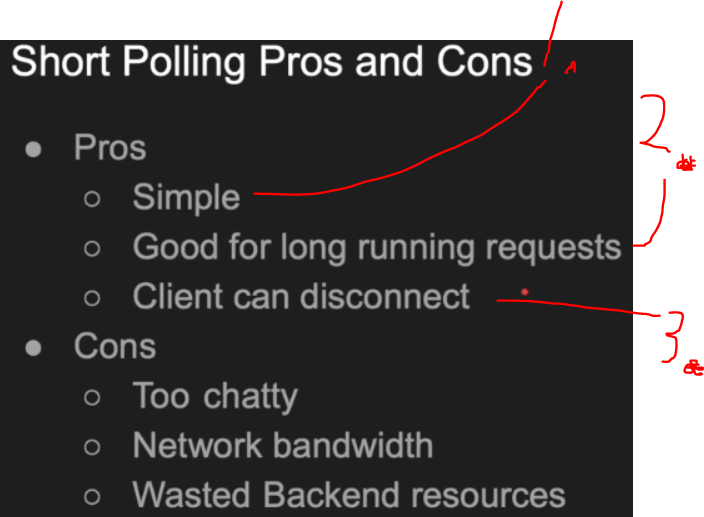
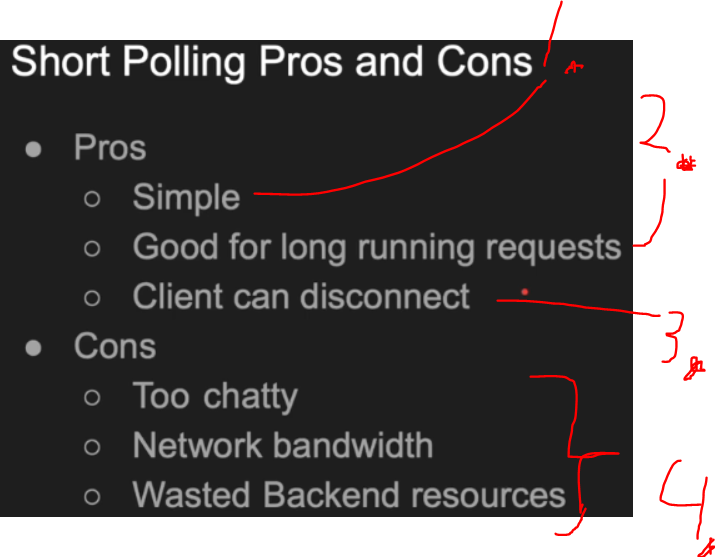
proceeded

diff --git a/Fundamentals of Backend Engineering/Section 02/README.md b/Fundamentals of Backend Engineering/Section 02/README.md
@@ -33,17 +33,21 @@ Backend Communication Design Patterns.
 6. Simple diagram for the **request** and the **response**.
 
 > [!NOTE]
-> Where does the **serialization** and **deserialization** come to place, in example of the **JSON**?
+> Where does the **serialization** and **deserialization** come to place, in example of the **JSON**? <br>
     - In the **step**, `processing the request`. The `3` step!
         - 💲💲**EXPENSIVE**💲💲 of **deserialization**.
             - Example, the **XML** is heavy on processing!
 
-<img id="back end egineer" src="whereAreTheseUsed.PNG" >
+<div align="center">
+    <img id="back end egineer" src="whereAreTheseUsed.PNG" >
+</div>
 
 1. HTTP, DNS ... are **request and response** protocols.    
     - There is **no order**, when coming into communication and in **general** when dealing with **backend engineering**
 
-<img id="back end egineer" src="thereIsNoLineInBeEngineering.jpeg" >
+<div align="center">
+    <img id="back end egineer" src="thereIsNoLineInBeEngineering.jpeg" >
+</div>
 
 2. You run **code** in other place than in own computer.  
 3. **SQL** is also, **request and response**. We send **SQL** and processes it and sends back.
@@ -133,18 +137,24 @@ Body
 
 # Push.  
 
-<img id="back end egineer" src="push.PNG">
+<div align="center">
+    <img id="back end egineer" src="push.PNG">
+</div>
 
 1. If you want to be fast as possible use, then you can think of using **PUSH**!
     - One of the famous ones!
 
-<img id="back end egineer" src="requestAndReponseNotAlwaysBest.PNG">
+<div align="center">
+    <img id="back end egineer" src="requestAndReponseNotAlwaysBest.PNG">
+</div>
 
 1. "Do I have event" → "No", "I have event" → "no" ... etc. With, **request** and **response** this is not ideal.
 2. **Pushing** is good when in certain use cases. Example, when server knows to push something to the **client**.
     - Example would be **chatting application**.
 
-<img id="back end egineer" src="whatIsPush.PNG">
+<div align="center">
+    <img id="back end egineer" src="whatIsPush.PNG">
+</div>
 
 1. **Client** connects to a **server**. Only thing should happen is the **connection**!
 2. **Server** sends data to the **client**!
@@ -154,13 +164,19 @@ Body
         - **Clients** consumes **queue**!
             - In **RabbitMQ** pushes messages **automatically** to the **clients** that are connected to it as soon as they’re available in **queue**!
 
-<img id="back end egineer" src="pushModel.PNG">
+<div align="center">
+    <img id="back end egineer" src="pushModel.PNG">
+</div>
 
 1. The connection is **established**!
 2. Backend gets **message**.
     - This **message** is **PUSHED** to all connected the **clients**!
 
-<img id="back end egineer" src="pushPlussesAndMinuses.PNG">
+<div align="center">
+    <img id="back end egineer" src="pushPlussesAndMinuses.PNG">
+</div>
+
+
 
 1. **Push** is based on the **real time**. On the moment data come to the input, we are going to **PUSH** it to clients. 
     - This is the definition of the **PUSH**.
@@ -174,14 +190,21 @@ Body
 
 - For this example we will test with **WebSocket** server and connecting:
 
-<img id="back end egineer" width="600" src="webSocketTesting.PNG">
+<div align="center">
+    <img id="back end egineer" width="500" src="webSocketTesting.PNG">
+</div>
+
+
 
 - Testing and connecting to the **WebSocket** we can test this by running in the terminal!
     - Run in cmd `let ws = new WebSocket("ws://localhost:8080");`.
 
 - We write simple **WebSocket** server. This will demonstrate the **PUSH** concept.
 
-<img id="back end egineer" width="600" src="pushPatternExample.jpeg">
+<div align="center">
+    <img id="back end egineer" width="400" src="pushPatternExample.jpeg">
+</div>
+
 
 ````
 const http = require("http");
@@ -313,12 +336,16 @@ connections.forEach (c=> c.send(`User${connection.socket.remotePort} just connec
 - **Polling** is good for service, where the progress takes **much time**.
     - Like uploading **YouTube** video. Upload takes time, but the service return the **handle** for the client. This is good for client to ask is this job done!
 
-<img id="back end egineer" src="whereTheRequesAndResponseIsNotIdeal.PNG">
+<div align="center">
+    <img id="back end egineer" src="whereTheRequesAndResponseIsNotIdeal.PNG">
+</div>
 
 1. The `request` and `response` is **not ideal**, when the **request** takes **too** much time to process. Example **uploading video** to the YouTube video!
 2.  We would want to have event that something did happen in backend. **Push** or **Polling** very good for certain use cases!
 
-<img id="back end egineer" src="whatIsShortPolling.PNG">
+<div align="center">
+    <img id="back end egineer" src="whatIsShortPolling.PNG">
+</div>
 
 1. **Client** sends a **request**.
     - The **Server** responds immediately with a **handle**.
@@ -327,7 +354,9 @@ connections.forEach (c=> c.send(`User${connection.socket.remotePort} just connec
             - Save it to **memory**.
 2. **Client** can use the `handle` for **POLL**:in the **status** from the server!
 
-<img id="back end egineer" src="shortPollingModel.PNG">
+<div align="center">
+    <img id="back end egineer" src="shortPollingModel.PNG">
+</div>
 
 1. **Client** makes request, the **Server immediately** answers with the **handle** to be requested.
 
@@ -337,7 +366,9 @@ connections.forEach (c=> c.send(`User${connection.socket.remotePort} just connec
 > [!CAUTION]
 > If the client disconnects, the response will be responded regardless is the client ready accept it or not!
 
-<img id="back end egineer" src="shortPollingProsAndCons.PNG">
+<div align="center">
+    <img id="back end egineer" src="shortPollingProsAndCons.PNG">
+</div>
 
 1. It is relatively **simple to implement**.
 2. This is good for **long running requests**.
@@ -382,6 +413,67 @@ function updateJob(jobId, prg) {
 - `const jobs = {} // Dictionary of the jobs.` The `jobs` will be **dictionary**: 
     - **Key** Job ID.
     - **Value** Progress.
+        - This will not just be, is it ready or not, it will be progress of the job.
+
+
+````
+app.post("/submit", (req, res) =>  {
+    const jobId = `job:${Date.now()}`
+    jobs[jobId] = 0;
+    updateJob(jobId,0); 
+    res.end("\n\n" + jobId + "\n\n");
+})
+````
+
+- Someone submitting the job.
+    - `JobId`, will be `job:${Date.now()}` at the given **time**.
+
+- The `updateJob()`, will be updating the job progress.
+
+```
+function updateJob(jobId, prg) {
+    jobs[jobId] = prg;
+    console.log(`updated ${jobId} to ${prg}`)
+    if (prg == 100) return;
+    this.setTimeout(()=> updateJob(jobId, prg + 10), 3000)
+}
+```
+
+- Just printing the `JobId` with the `progress`.
+
+````
+console.log(`updated ${jobId} to ${prg}`)
+````
+
+- Checking the **status** of the job!
+
+````
+app.get("/checkstatus", (req, res) => {
+    console.log(jobs[req.query.jobId])
+    res.end("\n\nJobStatus: " + jobs[req.query.jobId] + "%\n\n")
+
+} )
+````
+
+- Update the job `progress`.
+
+````
+function updateJob(jobId, prg) {
+    jobs[jobId] = prg;
+    console.log(`updated ${jobId} to ${prg}`)
+    if (prg == 100) return;
+    this.setTimeout(()=> updateJob(jobId, prg + 10), 3000)
+}
+````
+
+<div align="center">
+    <img id="back end egineer" src="weCanPollTheStatusOfTheJob.PNG">
+</div>
+
+1. We can **POLL** the status of the **job**, with the concept of **short polling**!
+
+> [!IMPORTANT]  
+> Only downside to this was the **netowrking** cost!
 
 # Long Polling.  
 

diff --git a/Design Patterns in Java/src/Section 13/README.md b/Design Patterns in Java/src/Section 13/README.md
@@ -1,3 +1,17 @@
 ## Section 13:
 
 # What I Learned.
+
+# Overview.
+
+# Protection Proxy.
+
+# Property Proxy.
+
+# Dynamic Proxy for Logging.
+
+# Proxy vs. Decorator.
+
+# Coding Exercise 10: Proxy Coding Exercise.
+
+# Summary.

diff --git a/Design Patterns in Java/src/Section 14/README.md b/Design Patterns in Java/src/Section 14/README.md
@@ -1,3 +1,15 @@
 ## Section 14:
 
 # What I Learned.
+
+# Overview.
+
+# Method Chain.
+
+# Command Query Separation.
+
+# Broker Chain.
+
+# Coding Exercise 11: Chain of Responsibility Coding Exercise.
+
+# Summary.

diff --git a/Design Patterns in Java/src/Section 12/README.md b/Design Patterns in Java/src/Section 12/README.md
@@ -1,3 +1,13 @@
 ## Section 12:
 
 # What I Learned.
+
+# Overview.
+
+# Repeating User Names.
+
+# Text Formatting.
+
+# Coding Exercise 9: Flyweight Coding Exercise.
+
+# Summary.
